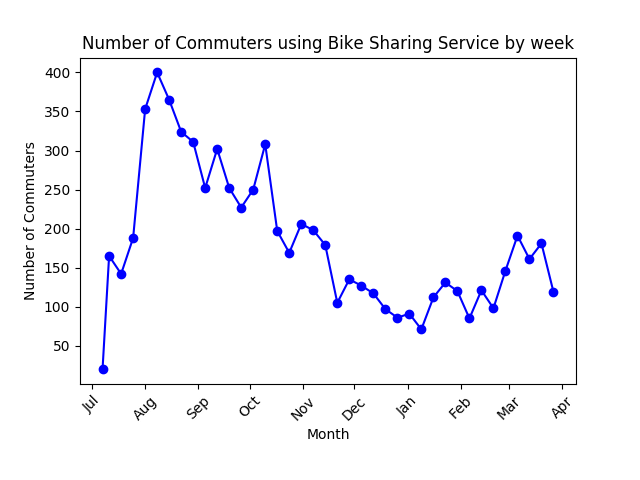
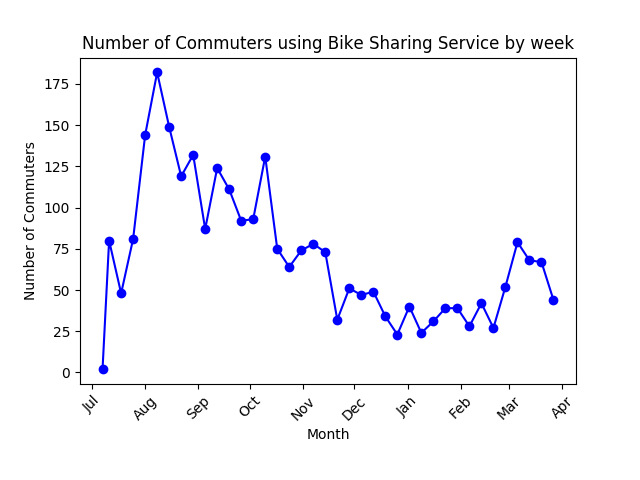
polished up

diff --git a/data_analysis/analysis.py b/data_analysis/analysis.py
@@ -165,24 +165,20 @@ while weekind !=14:
     for k in range(7):
             day1 = weekdf['Start Time'][0].dayofyear + k
             dayones = weekdf.loc[weekdf['Start Time'].dt.dayofyear== day1,:].reset_index(drop=True)
-            # day2 = weekdf['Start Time'][0].dayofyear + j
-            # daytwos = weekdf.loc[weekdf['Start Time'].dt.dayofyear == day2, :].reset_index(drop=True)
             for index, row in dayones.iterrows():
                 stid = row['Starting Station ID']
                 enid = row['Ending Station ID']
                 time1 = row['Start Time'].hour
                 time2 = row['End Time'].hour
-                # comp = daytwos.loc[(daytwos['Starting Station ID'] == stid) & (daytwos['Ending Station ID'] == enid) & ((daytwos['Start Time'].dt.hour == time1) | (daytwos['End Time'].dt.hour == time2)), ['Starting Station ID', 'Ending Station ID', 'Start Time', 'End Time']]
-                # if len(comp) != 0: # indicates that there is an entry in another day at the same time going from the same starting location to the ending location
                 strrep = str(row['Starting Station ID']) + str(row['Ending Station ID']) + str(row['Start Time'].hour)+str(row['End Time'].hour)
                 if strrep not in commutersset:
                         # weeklycommuters +=1
                     commutersset[strrep] = 1
                 else:
                     commutersset[strrep] += 1
-                    if commutersset[strrep] == 3:
+                    if commutersset[strrep] == 4: #change this value to create different threshold plots for commuters
                         weeklycommuters +=1
-                    if commutersset[strrep] == 4:
+                    if commutersset[strrep] == 5: #change this value to create different threshold plots for commuters
                         commutersset[strrep] = 1
 
     commuters.append(weeklycommuters)
@@ -190,8 +186,6 @@ while weekind !=14:
     weekind = weekind % 53
     if weekind ==0:
         weekind +=1
-    print(commuters)
-    print(weekind)
 
 #plot all the data
 commute = plt.figure()
@@ -206,7 +200,7 @@ myFmt = mdates.DateFormatter('%b')
 ax.xaxis.set_major_formatter(myFmt)
 plt.setp(plt.gca().xaxis.get_majorticklabels(),'rotation', 45)
 plt.gcf().subplots_adjust(bottom=0.2)
-plt.savefig(imgpat + 'commuters_over_time4.png')
+plt.savefig(imgpat + 'commuters_over_time4.png') #change the number at the end to create different plots
 plt.show()
 
 numrides = plt.figure()
